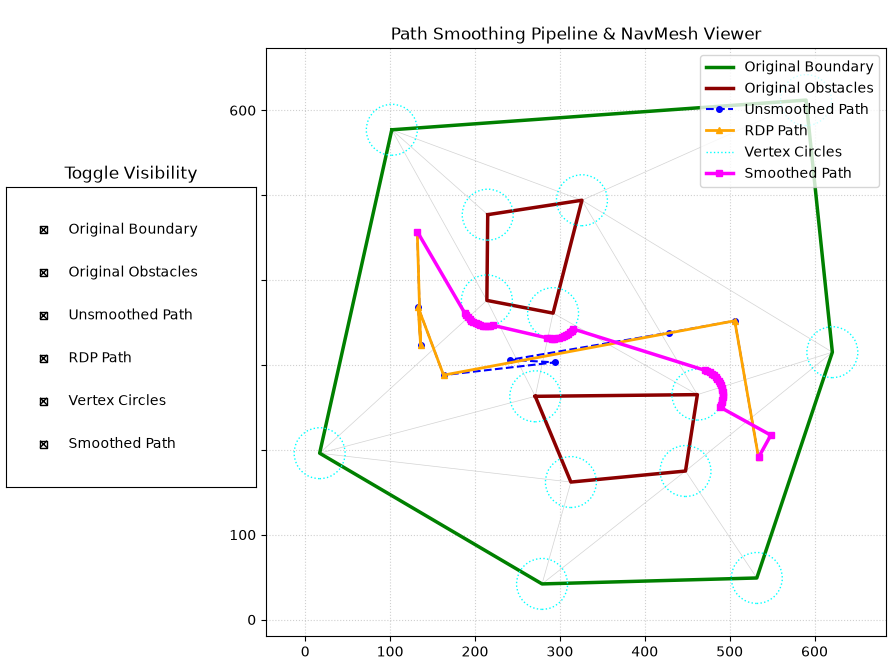
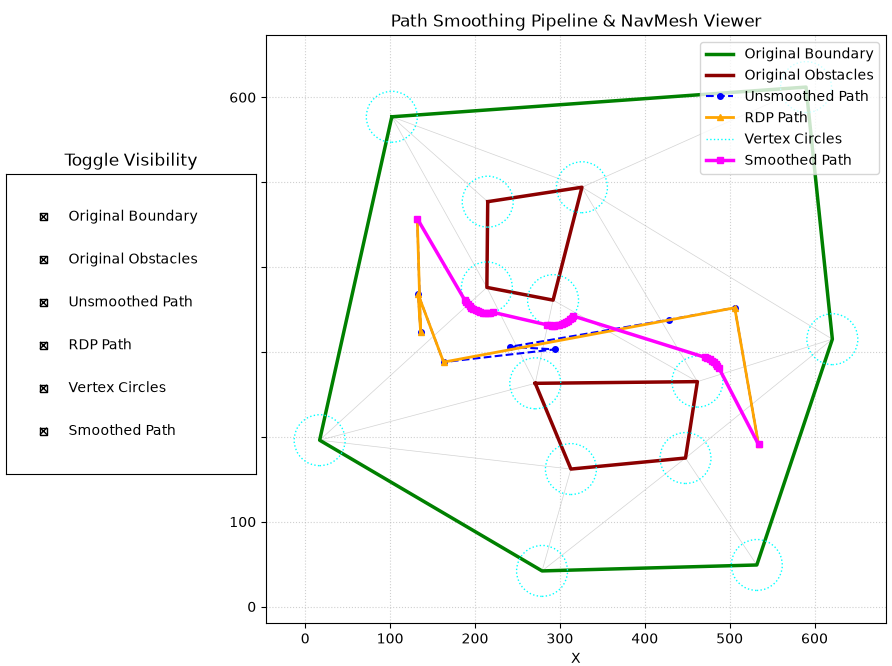
Bug fix
Fixed the bug of having an unnecessary 90 degree turn before connecting to the terminal point

diff --git a/polyline_buffer_funnel.py b/polyline_buffer_funnel.py
@@ -37,16 +37,17 @@ def point_line_distance(pt: Point, line_start: Point, line_end: Point) -> float:
         (line_end.x - line_start.x) * pt.y + 
         line_end.x * line_start.y - 
         line_end.y * line_start.x
-    )
-    return numerator / line_mag
+    )  # cross product, and the absolute operator extracts just the area of the parallelogram
+
+    return numerator / line_mag  # dividing the parallelogram area by the base length gives the height, which is the distance between the point to the line
 
 def calculate_tangent_angle(apex: Point, center: Point, radius: float, is_left: bool) -> float:
     dist = distance(apex, center)
     if dist <= radius:
-        return math.atan2(apex.y - center.y, apex.x - center.x)
+        return math.atan2(apex.y - center.y, apex.x - center.x)  # the vector points from the center to the apex - a safety measure to drives the apex away from the circle
 
     theta = math.atan2(center.y - apex.y, center.x - apex.x)
-    phi = math.asin(radius / dist)
+    phi = math.asin(radius / dist)  # the angle offset from theta that will graze the circle's edge
     
     # Left obstacles require tangent on their right side (-phi)
     # Right obstacles require tangent on their left side (+phi)
@@ -97,6 +98,67 @@ def generate_arc_points(center: Point, radius: float, angle_in: float, angle_out
         ))
     return points
 
+def visualize_arc_points_with_arrows(center: Point, radius: float, points: List[Point]):
+    """
+    Plots the clearance circle and the arc path with directional arrows to confirm CCW motion.
+    """
+    fig, ax = plt.subplots(figsize=(8, 8))
+    
+    # 1. Plot the clearance circle
+    circle = plt.Circle((center.x, center.y), radius, color='red', fill=False, linestyle='--', label='Clearance Circle')
+    ax.add_patch(circle)
+    
+    # 2. Extract coordinates
+    x = np.array([p.x for p in points])
+    y = np.array([p.y for p in points])
+    
+    # 3. Plot the line path
+    ax.plot(x, y, color='blue', marker='o', label='Discretized Arc')
+    
+    # 4. FIX: Add directional arrows
+    # Calculate the direction of the path segments
+    dx = np.diff(x)
+    dy = np.diff(y)
+    
+    # Use quiver to plot arrows at the midpoint of each segment
+    mid_x = (x[:-1] + x[1:]) / 2
+    mid_y = (y[:-1] + y[1:]) / 2
+    
+    # quiver(X, Y, U, V)
+    ax.quiver(mid_x, mid_y, dx, dy, color='blue', angles='xy', scale_units='xy', scale=1, width=0.005)
+    
+    # Formatting
+    ax.plot(center.x, center.y, marker='x', color='black', label='Center')
+    ax.set_aspect('equal', 'box')
+    ax.grid(True, linestyle=':', alpha=0.6)
+    ax.legend(loc='upper right')
+    plt.title("Arc Discretization (Arrows indicate Direction)")
+    
+    # Margin
+    margin = radius * 1.5
+    ax.set_xlim(center.x - margin, center.x + margin)
+    ax.set_ylim(center.y - margin, center.y + margin)
+    
+    plt.show()
+
+if False:
+    center_pt = Point(0, 0)
+    clearance_radius = 5.0
+
+    # Example: 180-degree counter-clockwise turn starting from the bottom
+    # Step is set large (0.5 rad = ~28 deg) to make r_safe inflation obvious
+    generated_points = generate_arc_points(
+        center=center_pt,
+        radius=clearance_radius,
+        angle_in=math.pi/2,  
+        angle_out=0,   
+        is_left=True,           
+        step=0.5                 
+    )
+
+    # visualize_arc_points(center_pt, clearance_radius, generated_points)
+    visualize_arc_points_with_arrows(center_pt, clearance_radius, generated_points)
+     
 def calculate_centroid(polygon: Polygon) -> Point:
     x_coords = [p.x for p in polygon]
     y_coords = [p.y for p in polygon]
@@ -186,11 +248,11 @@ def modified_funnel(portals: List[Portal], start: Point, end: Point, radius: flo
         return [start, end]
 
     smoothed_path = [start]
-    
+
     apex = start
     left_vertex = portals[0].left
     right_vertex = portals[0].right
-    
+
     left_index = 0
     right_index = 0
 
@@ -198,6 +260,68 @@ def modified_funnel(portals: List[Portal], start: Point, end: Point, radius: flo
     while i < len(portals):
         new_left = portals[i].left
         new_right = portals[i].right
+
+        if new_left == end and new_right == end:
+            end_angle = math.atan2(end.y - apex.y, end.x - apex.x)
+
+            # Check if direct line to end breaks the left bound
+            if apex != left_vertex:
+                current_left_angle = calculate_tangent_angle(apex, left_vertex, radius, is_left=True)
+                if angle_diff(end_angle, current_left_angle) > 0.0:
+                    Tin = get_tangent_point(apex, left_vertex, radius, is_left=True)
+                    smoothed_path.append(Tin)
+                    
+                    angle_in = math.atan2(Tin.y - left_vertex.y, Tin.x - left_vertex.x)
+                    dist_to_next = distance(left_vertex, end)
+                    
+                    if dist_to_next > radius:
+                        theta = math.atan2(end.y - left_vertex.y, end.x - left_vertex.x)
+                        # Asymmetric bitangent from r to 0
+                        angle_out = theta - math.acos(radius / dist_to_next)
+                        arc_pts = generate_arc_points(left_vertex, radius, angle_in, angle_out, is_left=True)
+                        smoothed_path.extend(arc_pts)
+                        apex = arc_pts[-1]
+                    else:
+                        apex = Tin
+                    
+                    left_vertex = apex
+                    right_vertex = apex
+                    apex_index = left_index
+                    left_index = apex_index
+                    right_index = apex_index
+                    i = apex_index + 1
+                    continue
+            
+            # Check if direct line to end breaks the right bound
+            if apex != right_vertex:
+                current_right_angle = calculate_tangent_angle(apex, right_vertex, radius, is_left=False)
+                if angle_diff(end_angle, current_right_angle) < 0.0:
+                    Tin = get_tangent_point(apex, right_vertex, radius, is_left=False)
+                    smoothed_path.append(Tin)
+                    
+                    angle_in = math.atan2(Tin.y - right_vertex.y, Tin.x - right_vertex.x)
+                    dist_to_next = distance(right_vertex, end)
+                    
+                    if dist_to_next > radius:
+                        theta = math.atan2(end.y - right_vertex.y, end.x - right_vertex.x)
+                        # Asymmetric bitangent from r to 0
+                        angle_out = theta + math.acos(radius / dist_to_next)
+                        arc_pts = generate_arc_points(right_vertex, radius, angle_in, angle_out, is_left=False)
+                        smoothed_path.extend(arc_pts)
+                        apex = arc_pts[-1]
+                    else:
+                        apex = Tin
+                        
+                    left_vertex = apex
+                    right_vertex = apex
+                    apex_index = right_index
+                    left_index = apex_index
+                    right_index = apex_index
+                    i = apex_index + 1
+                    continue
+            
+            # Direct path is clear; break loop and append end coordinate
+            break
 
         # -------------------------------------------------------------------
         # 1. Update Right Vertex
@@ -208,35 +332,35 @@ def modified_funnel(portals: List[Portal], start: Point, end: Point, radius: flo
         else:
             new_right_angle = calculate_tangent_angle(apex, new_right, radius, is_left=False)
             current_right_angle = calculate_tangent_angle(apex, right_vertex, radius, is_left=False)
-            
+
             if angle_diff(new_right_angle, current_right_angle) >= 0.0:
                 if apex == left_vertex:
                     right_vertex = new_right
                     right_index = i
                 else:
                     current_left_angle = calculate_tangent_angle(apex, left_vertex, radius, is_left=True)
-                    
+
                     if angle_diff(new_right_angle, current_left_angle) > 0.0:
                         Tin = get_tangent_point(apex, left_vertex, radius, is_left=True)
                         smoothed_path.append(Tin)
-                        
+
                         angle_in = math.atan2(Tin.y - left_vertex.y, Tin.x - left_vertex.x)
                         dist_to_next = distance(left_vertex, new_right)
-                        
+
                         if dist_to_next > radius:
                             theta = math.atan2(new_right.y - left_vertex.y, new_right.x - left_vertex.x)
                             phi = math.asin(radius / dist_to_next)
                             angle_out = theta - phi
-                            
+
                             arc_pts = generate_arc_points(left_vertex, radius, angle_in, angle_out, is_left=True)
                             smoothed_path.extend(arc_pts)
                             apex = arc_pts[-1]
                         else:
                             apex = Tin
-                            
+
                         left_vertex = apex
                         right_vertex = apex
-                        
+
                         apex_index = left_index
                         left_index = apex_index
                         right_index = apex_index
@@ -255,35 +379,35 @@ def modified_funnel(portals: List[Portal], start: Point, end: Point, radius: flo
         else:
             new_left_angle = calculate_tangent_angle(apex, new_left, radius, is_left=True)
             current_left_angle = calculate_tangent_angle(apex, left_vertex, radius, is_left=True)
-            
+
             if angle_diff(new_left_angle, current_left_angle) <= 0.0:
                 if apex == right_vertex:
                     left_vertex = new_left
                     left_index = i
                 else:
                     current_right_angle = calculate_tangent_angle(apex, right_vertex, radius, is_left=False)
-                    
+
                     if angle_diff(new_left_angle, current_right_angle) < 0.0:
                         Tin = get_tangent_point(apex, right_vertex, radius, is_left=False)
                         smoothed_path.append(Tin)
-                        
+
                         angle_in = math.atan2(Tin.y - right_vertex.y, Tin.x - right_vertex.x)
                         dist_to_next = distance(right_vertex, new_left)
-                        
+
                         if dist_to_next > radius:
                             theta = math.atan2(new_left.y - right_vertex.y, new_left.x - right_vertex.x)
                             phi = math.asin(radius / dist_to_next)
                             angle_out = theta + phi
-                            
+
                             arc_pts = generate_arc_points(right_vertex, radius, angle_in, angle_out, is_left=False)
                             smoothed_path.extend(arc_pts)
                             apex = arc_pts[-1]
                         else:
                             apex = Tin
-                            
+
                         left_vertex = apex
                         right_vertex = apex
-                        
+
                         apex_index = right_index
                         left_index = apex_index
                         right_index = apex_index
@@ -296,7 +420,7 @@ def modified_funnel(portals: List[Portal], start: Point, end: Point, radius: flo
         i += 1
 
     smoothed_path.append(end)
-    return smoothed_path
+    return [*smoothed_path[:-2], smoothed_path[-1]]
 
 
 # ---------------------------------------------------------------------------

diff --git a/README.md b/README.md
@@ -1,6 +1,2 @@
 # polyline_buffer_funnel
 Funnel algorithm on polyline buffer that requires a clearance width
-
-
-# TODO
-1. At the end of the funnel smooth, the polyline has added an unnecessary turn. Needs to fix.